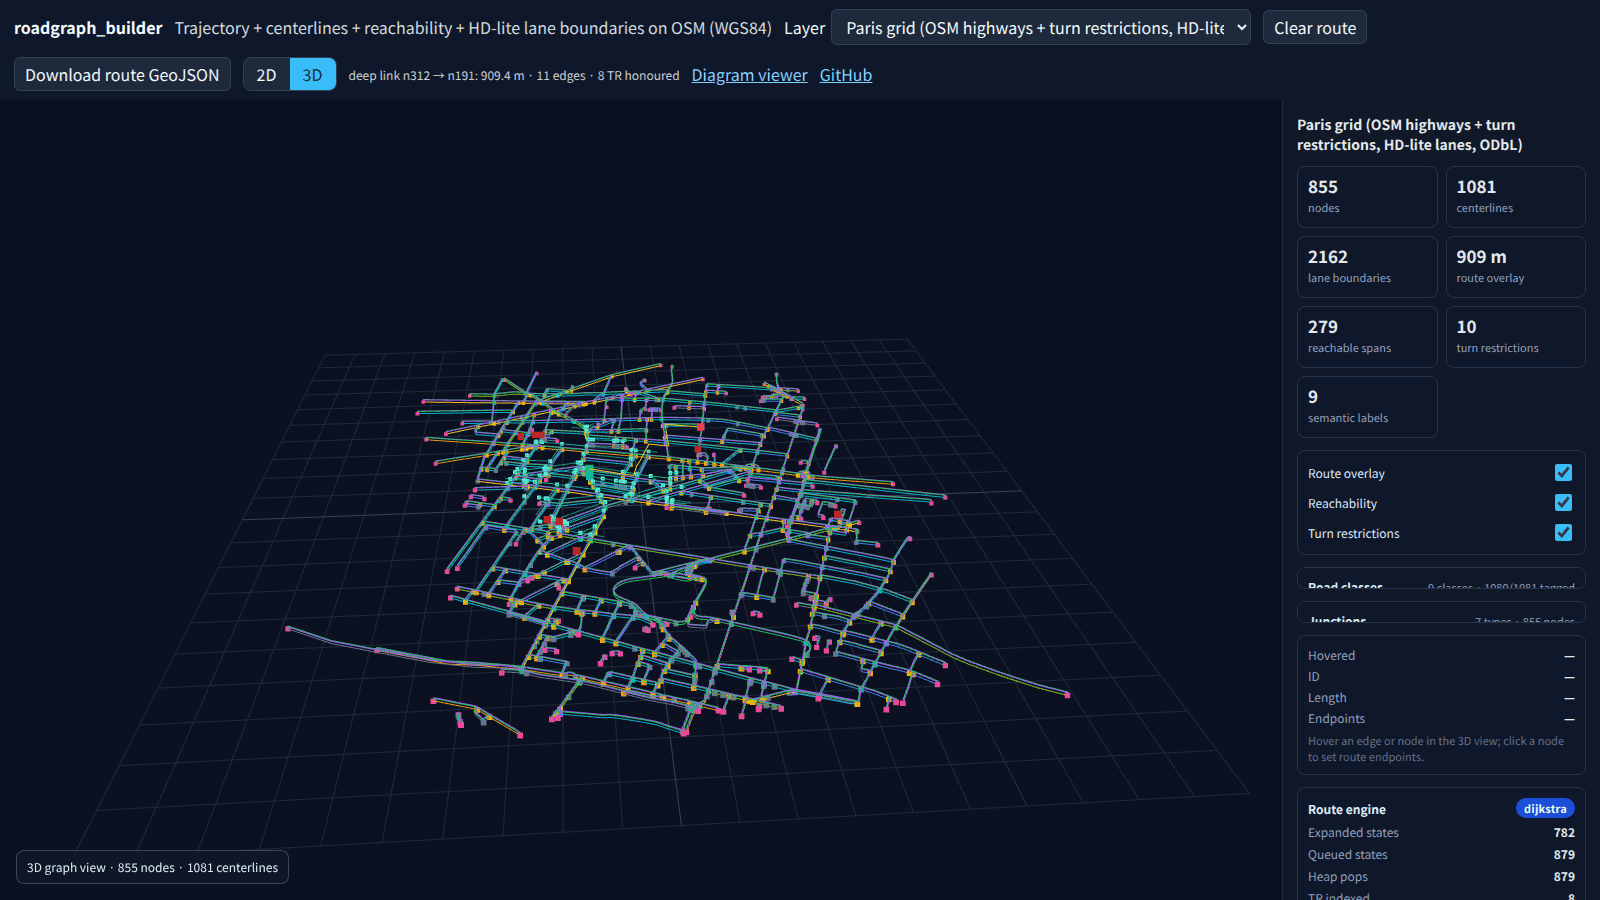
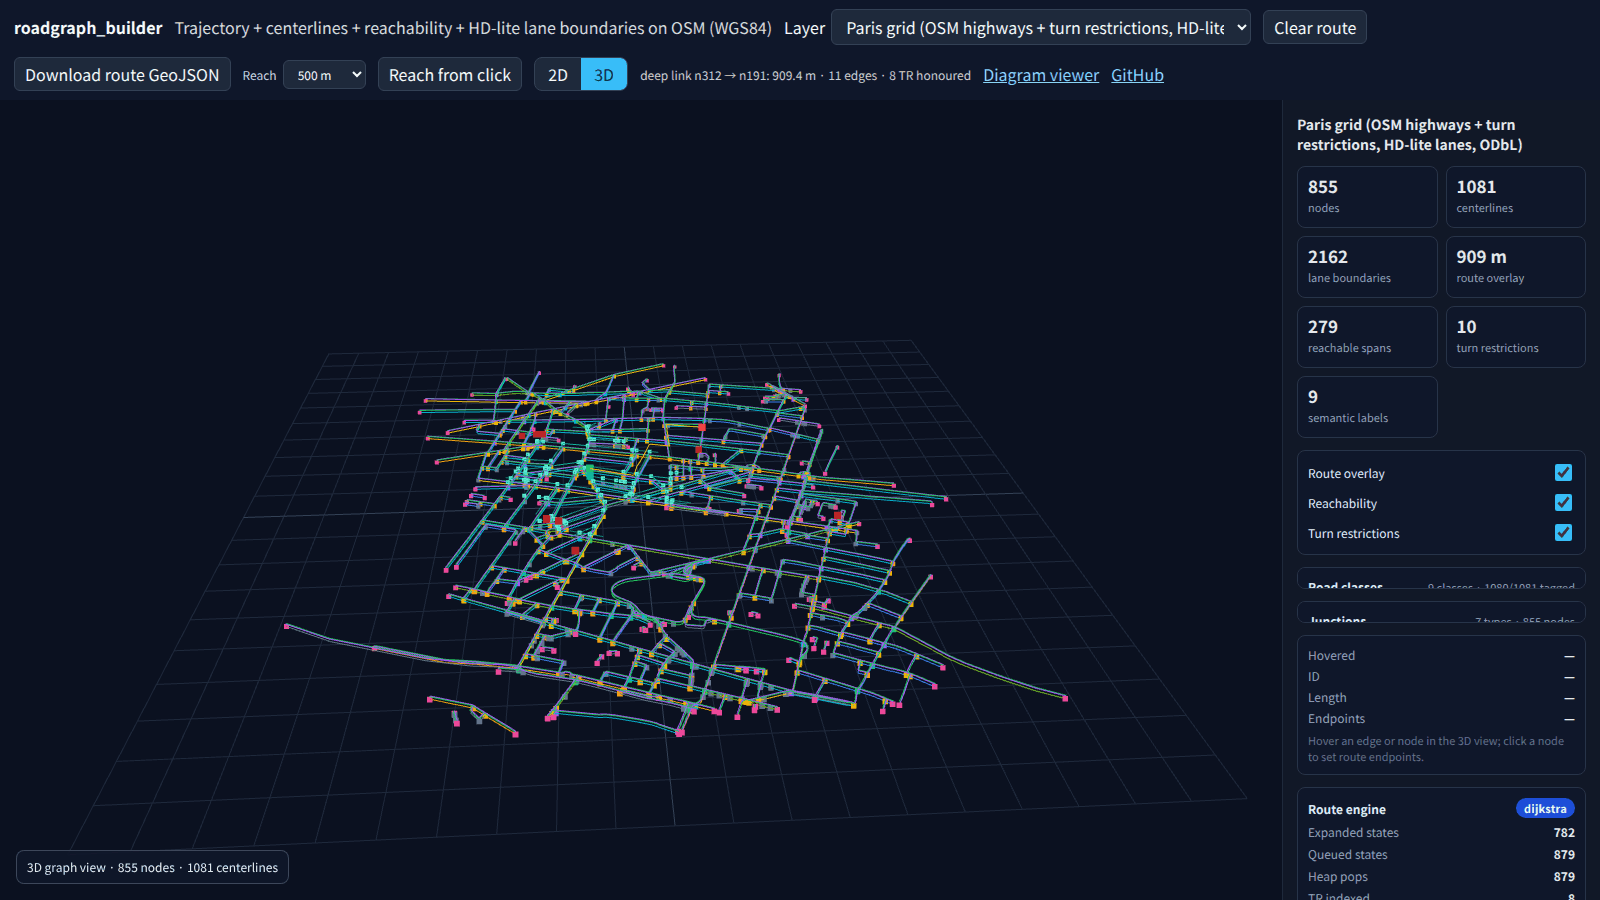
feat(viewer): live reachability-from-click with budget select
The map console only ever showed the committed prebaked
reachability overlay (start n312, 500 m). That overlay was useful as
a static demo but hid the fact that the pipeline exposes a full
service-area engine — users had no way to try a different start
node or budget from the viewer. The CLI has `reachable`, but
a GitHub.io visitor does not run a CLI.

This change lands the service-area engine as an interactive viewer
feature.

Toolbar. docs/map.html gains a `Reach` select (250 / 500 / 1000 /
2000 m, default 500) and a `Reach from click` button. Clicking the
button enters a reach-selection mode (button flips to .active); the
next node click interprets the pick as a reachability start rather
than a routing endpoint.

JS engine. docs/js/map_console.js adds reachableWithin(graph,
start, budgetM, restrictions) — the same directed-state
heap-capped Dijkstra shape as the existing route path, but with a
metre budget and per-edge spans carrying start_cost_m / end_cost_m
/ reachable_cost_m / reachable_fraction / complete. A small
clipLineToFraction() trims partial-edge lon/lat polylines so the
overlay matches the CLI's committed reachable_paris_grid.geojson
for the same inputs (accurate enough at Paris / Berlin extents).

Drawing. buildReachableFeatures() builds a FeatureCollection of
reachability_start + reachable_edge + reachable_node features with
the same properties as the prebaked GeoJSON. drawDynamicReachability()
[…]

diff --git a/docs/js/map_console.js b/docs/js/map_console.js
@@ -957,6 +957,16 @@ const RESTRICTIONS_URLS = {
 // Per-dataset graph cached for JS Dijkstra.
 const graphCache = {};
 let currentRouteSelection = { from: null, to: null };
+let reachSelectionMode = false;
+
+function setReachSelectionMode(enabled) {
+  reachSelectionMode = !!enabled;
+  const btn = document.getElementById("reach-from-click");
+  if (btn) btn.classList.toggle("active", reachSelectionMode);
+  if (reachSelectionMode) {
+    statusText("Click a graph node to compute reachable spans — press the button again to cancel.");
+  }
+}
 
 function statusText(msg) {
   document.getElementById("route-status").textContent = msg;
@@ -1421,6 +1431,243 @@ function dijkstra(graph, fromNode, toNode, restrictions) {
   };
 }
 
+// Clip a lon/lat polyline to a fraction of its Euclidean path length. Good
+// enough at the Paris-bbox scale (sub-km extents) and identical to how the
+// committed `reachable_paris_grid.geojson` clips partial edges.
+function clipLineToFraction(coords, fraction) {
+  if (!Array.isArray(coords) || coords.length === 0) return [];
+  if (fraction <= 0) return [coords[0].slice()];
+  if (fraction >= 1) return coords.map((c) => c.slice());
+  const cum = [0];
+  for (let i = 1; i < coords.length; i++) {
+    const dx = coords[i][0] - coords[i - 1][0];
+    const dy = coords[i][1] - coords[i - 1][1];
+    cum.push(cum[i - 1] + Math.sqrt(dx * dx + dy * dy));
+  }
+  const total = cum[cum.length - 1];
+  if (total <= 0) return [coords[0].slice()];
+  const target = total * fraction;
+  const out = [coords[0].slice()];
+  for (let i = 1; i < coords.length; i++) {
+    if (cum[i] >= target) {
+      const prev = cum[i - 1];
+      const f = (target - prev) / (cum[i] - prev);
+      const x = coords[i - 1][0] + f * (coords[i][0] - coords[i - 1][0]);
+      const y = coords[i - 1][1] + f * (coords[i][1] - coords[i - 1][1]);
+      out.push([x, y]);
+      break;
+    }
+    out.push(coords[i].slice());
+  }
+  return out;
+}
+
+// Directed-state Dijkstra capped at a metre budget. Shares the turn-
+// restriction handling with dijkstra() above. Returns reachable nodes (min
+// cost seen) and directed edge spans with a reachable_fraction for edges
+// whose far endpoint is beyond the budget.
+function reachableWithin(graph, startNode, budgetM, restrictions) {
+  if (!graph || !graph.adj || !graph.adj.has(startNode)) return null;
+  const budget = Number(budgetM);
+  if (!Number.isFinite(budget) || budget <= 0) return null;
+  const rx = restrictions || { noT: new Map(), onlyT: new Map() };
+  const stateKey = (node, inEdge, inDir) =>
+    node + "|" + (inEdge || "") + "|" + (inDir || "");
+
+  const nodeCost = new Map();
+  nodeCost.set(startNode, 0);
+  const edgeSpans = new Map();
+
+  const dist = new Map();
+  dist.set(stateKey(startNode, null, null), 0);
+  const heap = [[0, startNode, null, null]];
+  const popMin = () => {
+    const top = heap[0];
+    const last = heap.pop();
+    if (heap.length) {
+      heap[0] = last;
+      let i = 0;
+      for (;;) {
+        const l = 2 * i + 1;
+        const r = 2 * i + 2;
+        let best = i;
+        if (l < heap.length && heap[l][0] < heap[best][0]) best = l;
+        if (r < heap.length && heap[r][0] < heap[best][0]) best = r;
+        if (best === i) break;
+        [heap[i], heap[best]] = [heap[best], heap[i]];
+        i = best;
+      }
+    }
+    return top;
+  };
+  const push = (entry) => {
+    heap.push(entry);
+    let i = heap.length - 1;
+    while (i > 0) {
+      const parent = (i - 1) >> 1;
+      if (heap[parent][0] <= heap[i][0]) break;
+      [heap[i], heap[parent]] = [heap[parent], heap[i]];
+      i = parent;
+    }
+  };
+
+  let popCount = 0;
+  let expandedCount = 0;
+  while (heap.length) {
+    const [d, u, inEdge, inDir] = popMin();
+    popCount += 1;
+    const key = stateKey(u, inEdge, inDir);
+    if (d > (dist.get(key) ?? Infinity)) continue;
+    if (d > budget) continue;
+    if (!nodeCost.has(u) || nodeCost.get(u) > d) nodeCost.set(u, d);
+    expandedCount += 1;
+    const outs = graph.adj.get(u) || [];
+    for (const out of outs) {
+      const outDir = out.reverse ? "reverse" : "forward";
+      if (inEdge) {
+        const fromKey = u + "|" + inEdge + "|" + inDir;
+        const outKey = out.edge_id + "|" + outDir;
+        if (rx.onlyT.has(fromKey) && rx.onlyT.get(fromKey) !== outKey) continue;
+        const banned = rx.noT.get(fromKey);
+        if (banned && banned.has(outKey)) continue;
+      }
+      const startCost = d;
+      const endCost = d + out.length;
+      const reachableEnd = Math.min(endCost, budget);
+      const reachableCost = reachableEnd - startCost;
+      if (reachableCost <= 0) continue;
+      const fraction = out.length > 0 ? reachableCost / out.length : 0;
+      const spanKey = out.edge_id + "|" + outDir;
+      const existing = edgeSpans.get(spanKey);
+      if (!existing || existing.reachable_fraction < fraction) {
+        edgeSpans.set(spanKey, {
+          edge_id: out.edge_id,
+          from_node: u,
+          to_node: out.neighbor,
+          direction: outDir,
+          start_cost_m: startCost,
+          end_cost_m: endCost,
+          reachable_cost_m: reachableEnd,
+          reachable_fraction: Math.max(0, Math.min(1, fraction)),
+          complete: endCost <= budget,
+        });
+      }
+      if (endCost <= budget) {
+        const nkey = stateKey(out.neighbor, out.edge_id, outDir);
+        if (endCost < (dist.get(nkey) ?? Infinity)) {
+          dist.set(nkey, endCost);
+          push([endCost, out.neighbor, out.edge_id, outDir]);
+        }
+      }
+    }
+  }
+  return {
+    nodeCost,
+    edgeSpans,
+    diagnostics: {
+      engine: "dijkstra",
+      heuristicEnabled: false,
+      fallbackReason: null,
+      expandedStates: expandedCount,
+      popCount,
+      budget_m: budget,
+    },
+  };
+}
+
+function buildReachableFeatures(graph, result, startNode, budgetM) {
+  const features = [];
+  const startLL = graph.nodes.get(startNode);
+  if (startLL) {
+    features.push({
+      type: "Feature",
+      properties: {
+        kind: "reachability_start",
+        node_id: startNode,
+        cost_m: 0,
+        budget_m: Number(budgetM),
+      },
+      geometry: { type: "Point", coordinates: [startLL.lon, startLL.lat] },
+    });
+  }
+  for (const span of result.edgeSpans.values()) {
+    const edge = graph.edges.get(span.edge_id);
+    if (!edge) continue;
+    let coords = edge.coords.map((c) => c.slice());
+    if (span.direction === "reverse") coords.reverse();
+    if (!span.complete && span.reachable_fraction < 1) {
+      coords = clipLineToFraction(coords, span.reachable_fraction);
+    }
+    if (coords.length < 2) continue;
+    features.push({
+      type: "Feature",
+      properties: {
+        kind: "reachable_edge",
+        edge_id: span.edge_id,
+        from_node: span.from_node,
+        to_node: span.to_node,
+        direction: span.direction,
+        start_cost_m: span.start_cost_m,
+        end_cost_m: span.end_cost_m,
+        reachable_cost_m: span.reachable_cost_m,
+        reachable_fraction: span.reachable_fraction,
+        complete: !!span.complete,
+      },
+      geometry: { type: "LineString", coordinates: coords },
+    });
+  }
+  for (const [nid, cost] of result.nodeCost) {
+    if (nid === startNode) continue;
+    const ll = graph.nodes.get(nid);
+    if (!ll) continue;
+    features.push({
+      type: "Feature",
+      properties: { kind: "reachable_node", node_id: nid, cost_m: cost },
+      geometry: { type: "Point", coordinates: [ll.lon, ll.lat] },
+    });
+  }
+  return { type: "FeatureCollection", features };
+}
+
+function drawDynamicReachability(which, startNode, budgetM) {
+  const graph = graphCache[which];
+  if (!graph) {
+    statusText("dataset graph not loaded yet");
+    return;
+  }
+  if (!graph.adj.has(startNode)) {
+    statusText("unknown node " + startNode + " — click another");
+    return;
+  }
+  const result = reachableWithin(graph, startNode, budgetM, graph.restrictions);
+  if (!result) {
+    statusText("reachable failed: bad budget or node");
+    return;
+  }
+  const data = buildReachableFeatures(graph, result, startNode, budgetM);
+  reachabilityOverlayLayer.clearLayers();
+  scenePayload.reachable = data;
+  const spans = data.features.filter((f) => f.properties.kind === "reachable_edge").length;
+  const reachedNodes = data.features.filter((f) => f.properties.kind === "reachable_node").length;
+  const gj = L.geoJSON(data, {
+    style: styleLine,
+    pointToLayer: pointLayer,
+    onEachFeature: bindCommonPopups,
+  });
+  reachabilityOverlayLayer.addLayer(gj);
+  updateInspector(which, { reachableEdges: spans });
+  const hintParts = [
+    "reach " + startNode + " (" + Number(budgetM) + " m)",
+    spans + " spans",
+    reachedNodes + " nodes",
+  ];
+  if (result.diagnostics) {
+    hintParts.push(result.diagnostics.expandedStates + " expanded");
+  }
+  statusText(hintParts.join(" · "));
+  if (activeView === "3d") render3DScene();
+}
+
 function drawDynamicRoute(graph, dij) {
   routeOverlayLayer.clearLayers();
   const coords = [];
@@ -1662,6 +1909,17 @@ function syncRouteDeepLink(dij) {
 }
 
 function onNodeClick(nodeId) {
+  // When reach-from-click mode is active, the next node click computes a live
+  // reachability overlay from that node with the currently selected budget,
+  // instead of routing.
+  if (reachSelectionMode) {
+    const which = document.getElementById("dataset").value;
+    const budgetSel = document.getElementById("reach-budget");
+    const budget = Number(budgetSel ? budgetSel.value : 500) || 500;
+    setReachSelectionMode(false);
+    drawDynamicReachability(which, nodeId, budget);
+    return;
+  }
   const sel = currentRouteSelection;
   if (!sel.from) {
     sel.from = nodeId;
@@ -1758,6 +2016,7 @@ async function show(which) {
   reachabilityOverlayLayer.clearLayers();
   restrictionsOverlayLayer.clearLayers();
   clearRoute();
+  setReachSelectionMode(false);
   if (threeState) {
     threeState.pointerActive = false;
     threeState.lastHoverKey = null;
@@ -1849,6 +2108,12 @@ document.getElementById("clear-route").addEventListener("click", clearRoute);
 const downloadRouteBtn = document.getElementById("download-route");
 if (downloadRouteBtn) {
   downloadRouteBtn.addEventListener("click", downloadRouteGeoJSON);
+}
+const reachFromClickBtn = document.getElementById("reach-from-click");
+if (reachFromClickBtn) {
+  reachFromClickBtn.addEventListener("click", () => {
+    setReachSelectionMode(!reachSelectionMode);
+  });
 }
 view2dButton.addEventListener("click", () => setView("2d"));
 view3dButton.addEventListener("click", () => setView("3d"));

diff --git a/docs/map.html b/docs/map.html
@@ -380,6 +380,17 @@
         border-radius: 4px;
         font-size: 10px;
       }
+      .reach-ctrl {
+        display: inline-flex;
+        align-items: center;
+        gap: 6px;
+        color: #cbd5e1;
+        font-size: 12px;
+      }
+      #reach-from-click.active {
+        background: #0f766e;
+        color: #ecfeff;
+      }
       .bar {
         position: relative;
         z-index: 10;
@@ -531,6 +542,16 @@
       </label>
       <button id="clear-route" title="Clear the current route selection">Clear route</button>
       <button id="download-route" disabled title="Download the current route as GeoJSON">Download route GeoJSON</button>
+      <label class="reach-ctrl">
+        Reach
+        <select id="reach-budget" title="Reachability budget in metres">
+          <option value="250">250 m</option>
+          <option value="500" selected>500 m</option>
+          <option value="1000">1000 m</option>
+          <option value="2000">2000 m</option>
+        </select>
+      </label>
+      <button id="reach-from-click" title="Click a graph node to compute reachable spans from it">Reach from click</button>
       <span class="segmented" aria-label="View mode">
         <button type="button" id="view-2d" class="active" title="2D map view">2D</button>
         <button type="button" id="view-3d" title="3D graph view">3D</button>

diff --git a/docs/PLAN.md b/docs/PLAN.md
@@ -6,7 +6,7 @@
 > このファイル → [`docs/ARCHITECTURE.md`](./ARCHITECTURE.md)（Mermaid 6 枚 + CLI 対応表 +
 > モジュール索引）→ [`CHANGELOG.md`](../CHANGELOG.md) の順。
 
-*最終更新: 2026-04-24 session（V1 実測 / camera warning fix / perf flake fix / docs sync / completions sync / Paris accuracy refresh / Berlin tuning sweep / README+docs visual preview + measured-results cards polish + README measured-results compacting / float32 opt-in + drift report + compare script + 1M synthetic memory profile + OSM public-trace replay profile / release bundle byte + normalized-manifest gate + manifest policy docs polish / private repo Pages blocked note / CLI boundary split wave 完了 / README release surface 整理 / v0.7.1 release + asset verification / packaging metadata smoke / 0.7.2.dev0 reopen / Actions Node24 update / release+PyPI dry-run / routing hot-path perf / nearest spatial index / cache invalidation hardening / build graph spatial merge perf / T-junction segment index perf / lean near-parallel merge loop / GeoJSON export compact path / compact bundle JSON writer / README quick-start smoke / release readiness dry-run refresh / reachable service-area CLI / reachable docs overlay / reachable benchmark coverage / benchmark baseline JSON / reachability analyzer perf / routing core split / RoutePlanner perf / GitHub star-growth surfaces / launch kit docs / safe A* routing / route explain diagnostics / route explain docs surface / route explain comparison UI / route diagnostics README screenshot / functional shortest_path planner cache + sampled validation / nearest-edge projection index / match-trajectory explain diagnostics / HMM bridge ambiguity benchmark / HMM adjacency reuse perf / HMM tail-cost cache / HMM long trajectory benchmark / edge-index cell tuning / 2D/3D map console / PLAN handoff expansion / map console pushed + CI green / Claude handoff refresh / map console hero screenshots / map console browser smoke opt-in pytest / map console JS split + 3D raycaster picking / map console deep link + route steps inspector / map console route export + deep-link 自動 fit + hero screenshot refresh / Paris grid + Berlin Mitte HD-lite lanes & committed viewer dataset / junction topology color coding / OSM road-class color coding + class breakdown / animated map console hero GIF / JS route engine diagnostics in inspector / Paris grid synthetic camera semantic overlay）を反映済み。*
+*最終更新: 2026-04-24 session（V1 実測 / camera warning fix / perf flake fix / docs sync / completions sync / Paris accuracy refresh / Berlin tuning sweep / README+docs visual preview + measured-results cards polish + README measured-results compacting / float32 opt-in + drift report + compare script + 1M synthetic memory profile + OSM public-trace replay profile / release bundle byte + normalized-manifest gate + manifest policy docs polish / private repo Pages blocked note / CLI boundary split wave 完了 / README release surface 整理 / v0.7.1 release + asset verification / packaging metadata smoke / 0.7.2.dev0 reopen / Actions Node24 update / release+PyPI dry-run / routing hot-path perf / nearest spatial index / cache invalidation hardening / build graph spatial merge perf / T-junction segment index perf / lean near-parallel merge loop / GeoJSON export compact path / compact bundle JSON writer / README quick-start smoke / release readiness dry-run refresh / reachable service-area CLI / reachable docs overlay / reachable benchmark coverage / benchmark baseline JSON / reachability analyzer perf / routing core split / RoutePlanner perf / GitHub star-growth surfaces / launch kit docs / safe A* routing / route explain diagnostics / route explain docs surface / route explain comparison UI / route diagnostics README screenshot / functional shortest_path planner cache + sampled validation / nearest-edge projection index / match-trajectory explain diagnostics / HMM bridge ambiguity benchmark / HMM adjacency reuse perf / HMM tail-cost cache / HMM long trajectory benchmark / edge-index cell tuning / 2D/3D map console / PLAN handoff expansion / map console pushed + CI green / Claude handoff refresh / map console hero screenshots / map console browser smoke opt-in pytest / map console JS split + 3D raycaster picking / map console deep link + route steps inspector / map console route export + deep-link 自動 fit + hero screenshot refresh / Paris grid + Berlin Mitte HD-lite lanes & committed viewer dataset / junction topology color coding / OSM road-class color coding + class breakdown / animated map console hero GIF / JS route engine diagnostics in inspector / Paris grid synthetic camera semantic overlay / live reachability on click）を反映済み。*
 
 ---
 
@@ -374,6 +374,20 @@
       browser smoke に `#junctions-card` / `#junctions-list li >= 4` / `N types · N nodes` assert
       を追加し、hero screenshots を再生成。Paris grid で 7 categories (t/y/crossroads/x/complex/
       through/dead) が色分け表示される状態。
+  83. live reachability on click を map console に実装。
+      `.bar` に `Reach` 予算 select（250/500/1000/2000 m、default 500）と
+      `Reach from click` button を追加。button を押すと `reachSelectionMode = true` で次の
+      node click が reachability start として解釈される。`reachableWithin(graph, start, budgetM,
+      restrictions)` は既存 JS Dijkstra と同形式の directed-state heap loop + budget cap で
+      reachable node cost と edge span（reachable_fraction + complete）を返し、partial edge は
+      `clipLineToFraction()` で lon/lat polyline を長さ fraction で clip。
+      `buildReachableFeatures()` が committed `reachable_paris_grid.geojson` と byte-互換な
+      FeatureCollection（reachability_start / reachable_edge / reachable_node）を生成し、
+      `drawDynamicReachability()` が 2D Leaflet + 3D scene + inspector `#stat-reach` を更新。
+      dataset 切替で `setReachSelectionMode(false)` で cancel。browser smoke に reach-from-click
+      → `onNodeClick("n191")` → status `^reach n191 \(500 m\)` + `#stat-reach > 0` + button が
+      active を外れる assertion を追加。
+
   82. synthetic camera semantic overlay を Paris grid viewer に追加。
       `docs/assets/paris_grid_camera_detections.json` に hand-authored の 9 detection
       (traffic_light ×3 / speed_limit ×2 / stop_line ×2 / crosswalk ×2) を commit。

diff --git a/README.md b/README.md
@@ -68,7 +68,7 @@ The docs map ships a Paris OSM-highway graph with 10 mapped turn restrictions, a
 
 [![Paris OSM-highway grid with a TR-aware route and 500 m reachability overlay](docs/images/paris_grid_route.svg)](docs/map.html)
 
-Open the interactive version locally: `cd docs && python3 -m http.server 8765`, then visit **`http://127.0.0.1:8765/map.html`** (pick a committed SD/HD sample from the dropdown — Paris grid, **Berlin Mitte**, GPS-derived Paris/Berlin, or the synthetic toy — with HD-lite lane boundaries drawn alongside every centerline and synthetic regulatory markers (traffic lights, stop lines, crosswalks, speed limits) on the Paris grid; add `?view=3d` for the 3D graph preview, `?dataset=berlin_mitte` to jump straight to Berlin, `?from=n312&to=n191` to restore the Paris turn-restriction-aware route — the 2D view auto-fits to the route, the inspector's **Route steps** card lists each edge / direction / cumulative length, and `Download route GeoJSON` streams the current route as `route_<dataset>_<from>_<to>.geojson`).
+Open the interactive version locally: `cd docs && python3 -m http.server 8765`, then visit **`http://127.0.0.1:8765/map.html`** (pick a committed SD/HD sample from the dropdown — Paris grid, **Berlin Mitte**, GPS-derived Paris/Berlin, or the synthetic toy — with HD-lite lane boundaries drawn alongside every centerline and synthetic regulatory markers (traffic lights, stop lines, crosswalks, speed limits) on the Paris grid; add `?view=3d` for the 3D graph preview, `?dataset=berlin_mitte` to jump straight to Berlin, `?from=n312&to=n191` to restore the Paris turn-restriction-aware route — the 2D view auto-fits to the route, the inspector's **Route steps** card lists each edge / direction / cumulative length, `Download route GeoJSON` streams the current route as `route_<dataset>_<from>_<to>.geojson`, and the **Reach from click** toolbar lets you pick any node and get a live reachability overlay for the selected budget without leaving the page).
 
 ### Quick start
 

diff --git a/CHANGELOG.md b/CHANGELOG.md
@@ -82,6 +82,22 @@ and this project adheres to [Semantic Versioning](https://semver.org/spec/v2.0.0
   browser smoke covers the `n312 → n191` deep link, asserting the card is
   visible, multiple steps render, and the URL retains `from` / `to`.
 
+- **Live reachability-from-click in the map console.**
+  `docs/map.html` gains a `Reach` budget select (250 / 500 / 1000 / 2000 m,
+  default 500) and a `Reach from click` toggle button. Activating the toggle
+  flips the next node click from routing to reachability: a new JS
+  `reachableWithin(graph, start, budgetM, restrictions)` runs a directed-
+  state Dijkstra with a metre cap (mirroring the CLI `reachable`
+  semantics) and returns per-edge spans including a `reachable_fraction`
+  for partial edges. `buildReachableFeatures()` emits a FeatureCollection
+  that matches the committed `reachable_paris_grid.geojson` shape, with
+  `clipLineToFraction()` trimming partial edges to their reachable length.
+  `drawDynamicReachability()` replaces the prebaked overlay on the 2D
+  Leaflet layer, refreshes the 3D scene payload, and updates
+  `#stat-reach`. Browser smoke asserts the flow end-to-end (button toggles
+  active, `onNodeClick('n191')` produces a `reach n191 (500 m) …` status
+  with a populated span count, and the button returns to inactive).
+
 - **Synthetic camera / regulatory overlay on the Paris grid viewer.**
   A committed, hand-authored
   `docs/assets/paris_grid_camera_detections.json` carries nine synthetic
